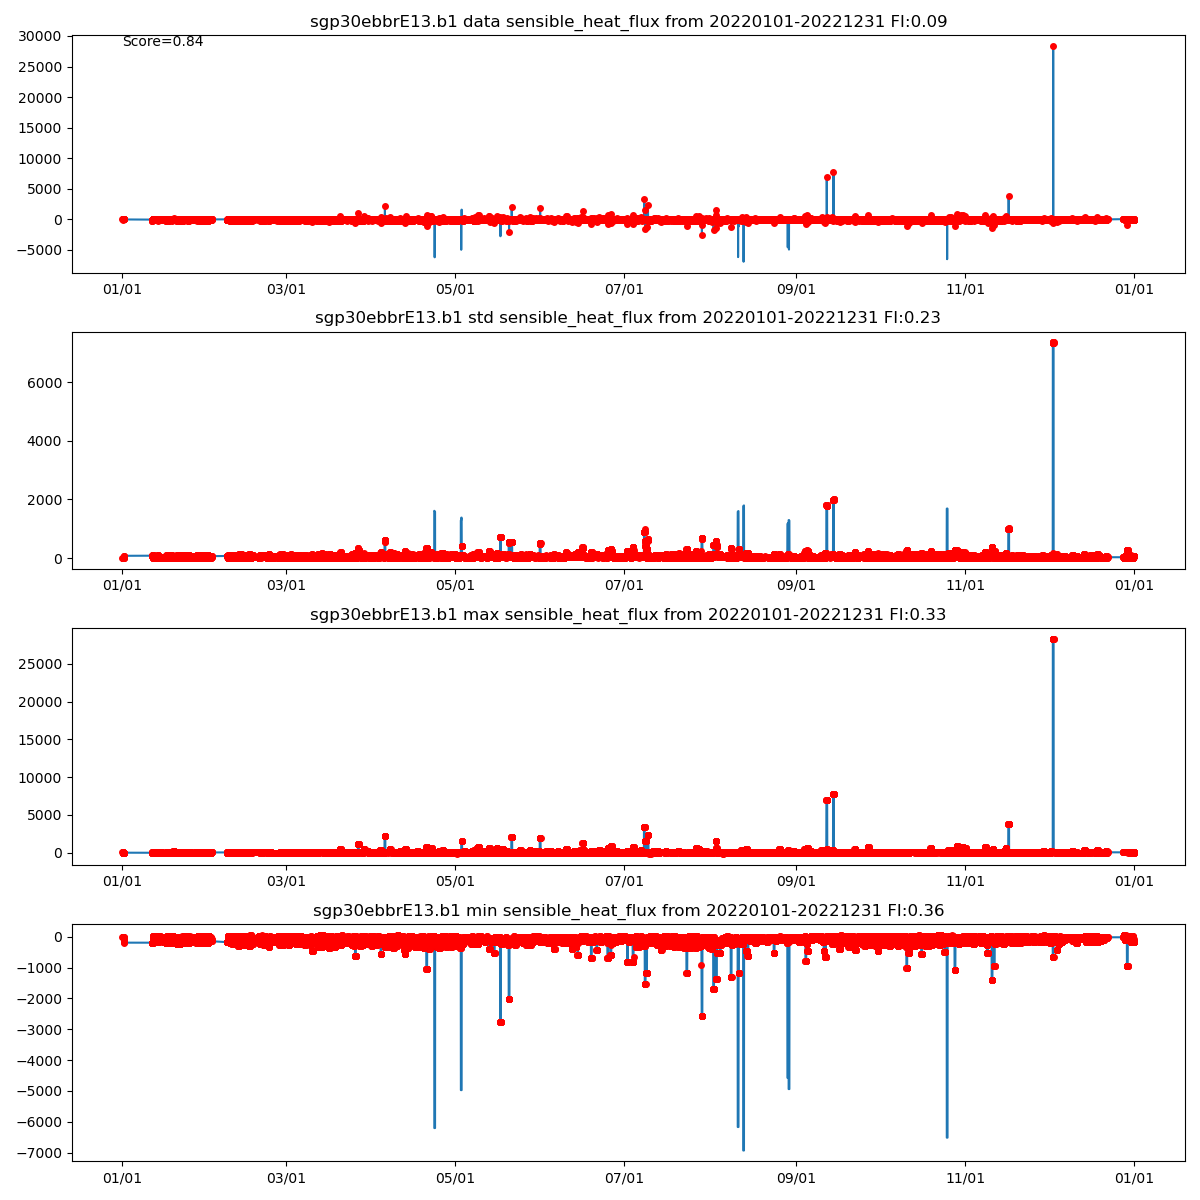
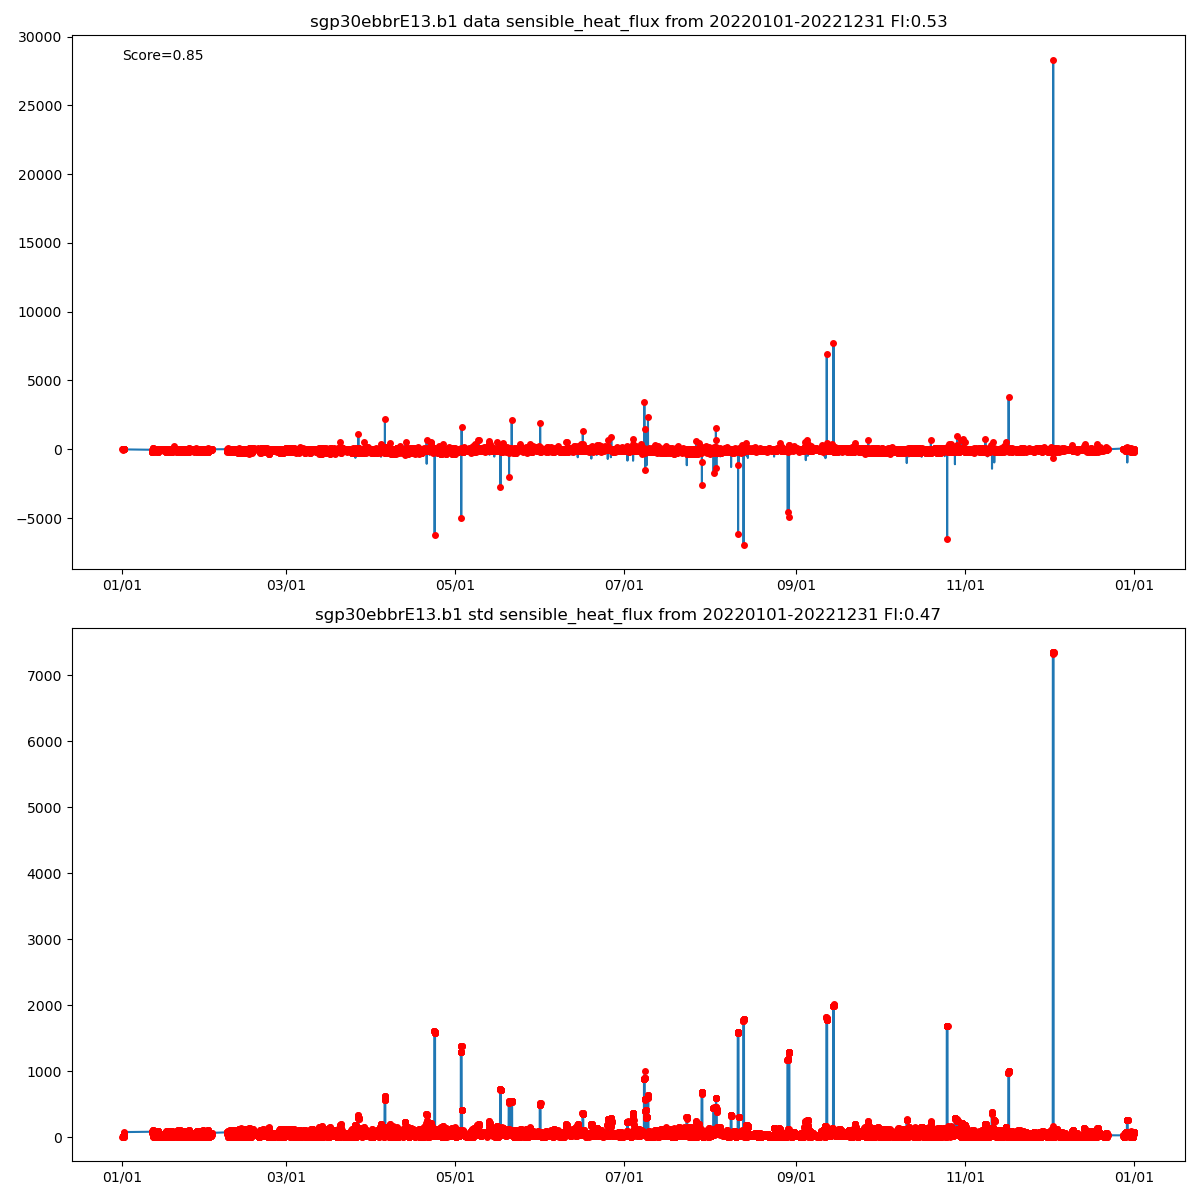
ENH: Updates

diff --git a/dqr_training/dqr_ml.py b/dqr_training/dqr_ml.py
@@ -18,14 +18,14 @@ import glob
 from datetime import datetime
 import random
 
-#ds='sgp30ebbrE13.b1'
-#varname='sensible_heat_flux' # sensible_heat_flux net_radiation 
-ds = 'sgpmetE13.b1'
-varname = 'temp_mean'
-ds = 'sgp30ecorE14.b1'
-varname = 'fc'
-vis_sdate='20190101'
-vis_edate='20191231'
+ds='sgp30ebbrE13.b1'
+varname='sensible_heat_flux' # sensible_heat_flux net_radiation 
+#ds = 'sgpmetE13.b1'
+#varname = 'temp_mean'
+#ds = 'sgp30ecorE14.b1'
+#varname = 'fc'
+vis_sdate='20220101'
+vis_edate='20221231'
 min_max=0
 n_est=25
 depth=3
